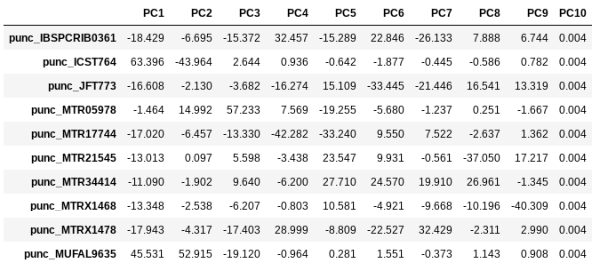
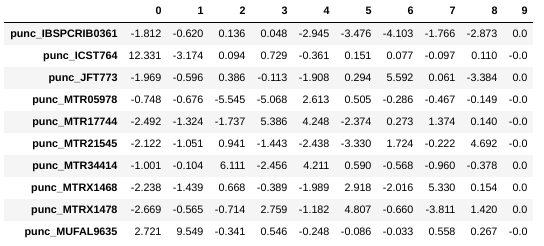
More updates for the PCA notebook, through subsampling

diff --git a/Lisbon2020/04_PCA_API.md b/Lisbon2020/04_PCA_API.md
@@ -125,23 +125,6 @@ we apply global and population-level minimum sampling thresholds, and then we
 set all missing data to 0 (the default). We will return to more sophisticated
 imputation methods in a little bit.
 
-We can inspect the samples included in the PCA by querying the `pca` object.
-```python
-print(pca.names)
-```
-```
-['punc_IBSPCRIB0361',
- 'punc_ICST764',
- 'punc_JFT773',
- 'punc_MTR05978',
- 'punc_MTR17744',
- 'punc_MTR21545',
- 'punc_MTR34414',
- 'punc_MTRX1468',
- 'punc_MTRX1478',
- 'punc_MUFAL9635']
-```
-
 Now construct the default plot, which shows all samples and PCs 1 and 2.
 By default all samples are assigned to one population, so everything will 
 be the same color.
@@ -169,6 +152,22 @@ have populations as keys and lists of samples as values. Sample names need to
 be identical to the names in the vcf file, which we can verify with the
 `names` property of the PCA object.
 
+```python
+print(pca.names)
+```
+```
+['punc_IBSPCRIB0361',
+ 'punc_ICST764',
+ 'punc_JFT773',
+ 'punc_MTR05978',
+ 'punc_MTR17744',
+ 'punc_MTR21545',
+ 'punc_MTR34414',
+ 'punc_MTRX1468',
+ 'punc_MTRX1478',
+ 'punc_MUFAL9635']
+```
+
 Here we create a python 'dictionary', which is a key/value pair data structure.
 The keys are the population names, and the values are the lists of samples that
 belong to those populations. You can copy and paste this into a new cell in your
@@ -190,7 +189,26 @@ pca = ipa.pca(data=vcffile, imap=imap)
 pca.run()
 pca.draw()
 ```
+```
+Converting vcf to HDF5 using default ld_block_size: 20000
+Typical RADSeq data generated by ipyrad/stacks will ignore this value.
+You can use the ld_block_size parameter of the PCA() constructor to change
+this value.
+
+[####################] 100% 0:00:00 | converting VCF to HDF5 Samples: 10
+Sites before filtering: 1194
+Filtered (indels): 0
+Filtered (bi-allel): 7
+Filtered (mincov): 0
+Filtered (minmap): 404
+Filtered (combined): 408
+Sites after filtering: 786
+Sites containing missing values: 746 (94.91%)
+Missing values in SNP matrix: 3548 (45.14%)
+Imputation (null; sets to 0): 100.0%, 0.0%, 0.0%
+Subsampling SNPs: 362/786
     <matplotlib.axes._subplots.AxesSubplot at 0x7fe092fbbe50>
+```
 
 ![png](04_PCA_API_files/04_PCA_API_02_Anolis_PCA_colored.png)
 
@@ -203,26 +221,79 @@ up:
 
 ![png](04_PCA_API_files/04_PCA_API_02_Anolis_PCA_hover.png)
 
+Lets notice something really quick, in the previous call to `run()` we were told
+`Subsampling SNPs: 508/1187`, yet now we have `Subsampling SNPs: 362/786`. Why
+might this be? Lets investigate further. Make a new cell and run this a couple
+times:
+```
+pca.run()
+pca.draw()
+```
+![png](04_PCA_API_files/04_PCA_API_02_Anolis_PCA_rep1.png)
+![png](04_PCA_API_files/04_PCA_API_02_Anolis_PCA_rep2.png)
+
+Notice anything?
+
+## Subsampling SNPs
+By default run() will randomly subsample one SNP per RAD locus to reduce the
+effect of linkage on your results. This can be turned off by setting
+`subsample=False`. Try this:
+
+```
+pca.run(subsample=False)
+pca.draw()
+```
+
+![png](04_PCA_API_files/04_PCA_API_02_Anolis_PCA_unsampled.png)
+
+
+Running this will produce identical results every time, because the subsampling
+is disabled. Now we can use the subsampling to our advantage to generate an
+estimate of uncertainty in the results!
+
+## Subsampling with replication
+
+
 
 ## Removing "bad" samples and replotting.
-In PC analysis, it's common for "bad" samples to dominate several of the first PCs, and thus "pop out" in a degenerate looking way. Bad samples of this kind can often be attributed to poor sequence quality or sample misidentifcation. Samples with lots of missing data tend to pop way out on their own, causing distortion in the signal in the PCs. Normally it's best to evaluate the quality of the sample, and if it can be seen to be of poor quality, to remove it and replot the PCA. The Anolis dataset is actually relatively nice, but for the sake of demonstration lets imagine the "North" samples are "bad samples".
+In PC analysis, it's common for "bad" samples to dominate several of the first
+PCs, and thus "pop out" in a degenerate looking way. Bad samples of this kind
+can often be attributed to poor sequence quality or sample misidentifcation.
+Samples with lots of missing data tend to pop way out on their own, causing
+distortion in the signal in the PCs. Normally it's best to evaluate the quality
+of the sample, and if it can be seen to be of poor quality, to remove it and
+replot the PCA. The Anolis dataset is actually relatively nice, but for the sake
+of demonstration lets imagine the "North" samples are "bad samples".
 
-From the figure we can see that we can see that "North" samples are distinguished by positive values on PC1. 
+From the figure we can see that we can see that "North" samples are
+distinguished by positive values on PC1. 
 
-We can get a more quantitative view on this by accessing `pca.pcs`, which is a property of the `pca` object that is populated after the plot() function is called. It contains the first 10 PCs for each sample. Let's have a look at these values by printing `pca.pcs`:
+We can get a more quantitative view on this by accessing `pca.pcs()`, which is
+a property of the `pca` object that is populated after the `run()` function is
+called. It contains the first 10 PCs for each sample. Let's have a look at
+these values:
 
 ```python
-## Saving the PCs table to a .csv file
-pca.pcs.to_csv("Anolis_10PCs.csv")
-
 ## Printing PCs to the screen
-pca.pcs
+pca.pcs().round(3)
 ```
-> **Note** It's always good practice to use informative file names, f.e. here we use the name of the dataset and the number of PCs retained.
+> **NB:** The `.round(3) trick is a way to make dataframes print fewer
+significant digits, just to make it less messy looking.
+
+```
+## You can also save the PCs table to a .csv file
+pca.pcs().to_csv("Anolis_10PCs.csv")
+```
+
+> **Note** It's always good practice to use informative file names, f.e. here
+we use the name of the dataset and the number of PCs retained.
 
 ![png](04_PCA_API_files/04_PCA_API_03_Anolis_PCA_PCS.png)
 
-You can see that indeed punc_ICST764 and punc_MUFAL9635 have positive values for PC1 and all the rest have negative values, so we can target them for removal in this way. We can construct a 'mask' based on the value of PC1, and then remove samples that don't pass this filter.
+You can see that indeed punc_ICST764 and punc_MUFAL9635 have positive values for
+PC1 and all the rest have negative values, so we can target them for removal in
+this way. We can construct a 'mask' based on the value of PC1, and then remove
+samples that don't pass this filter.
 
 ```python
 mask = pca.pcs.values[:, 0] > 0
